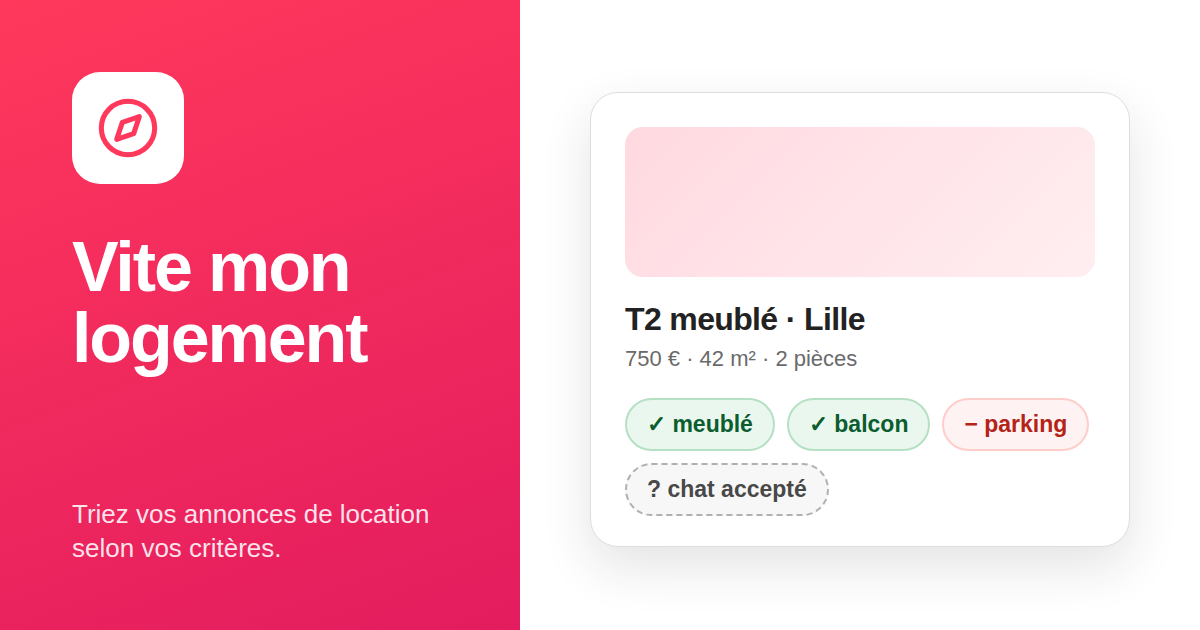
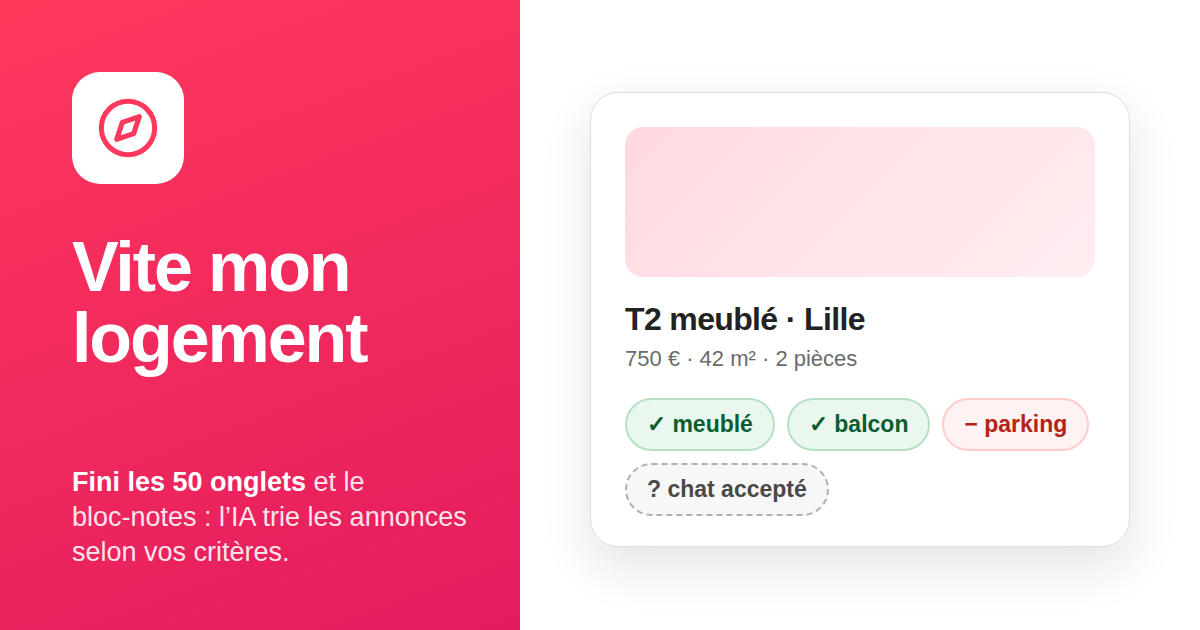
Aperçu du lien : message centré sur la rapidité grâce à l'IA (fini les 50 onglets et le bloc-notes)
Claude-Session: https://claude.ai/code/session_01HCKv9XVdnMPQNpiq93YsCf

Changed region(s): [[0.0617, 0.754, 0.4008, 0.9048]]

diff --git a/artifacts/logiscope/index.html b/artifacts/logiscope/index.html
@@ -4,10 +4,10 @@
     <meta charset="UTF-8" />
     <meta name="viewport" content="width=device-width, initial-scale=1.0, maximum-scale=1" />
     <title>Vite mon logement</title>
-    <meta name="description" content="Triez rapidement des annonces de location selon vos critères, avec preuves tirées des annonces." />
+    <meta name="description" content="Fini les 50 onglets et le bloc-notes : décrivez le logement que vous cherchez, l’IA trie les annonces et vérifie vos critères pour vous." />
     <meta name="robots" content="index, follow" />
-    <meta property="og:title" content="Vite mon logement" />
-    <meta property="og:description" content="Triez rapidement des annonces de location selon vos critères, avec preuves tirées des annonces." />
+    <meta property="og:title" content="Vite mon logement : trouvez une location plus vite, avec l’IA" />
+    <meta property="og:description" content="Fini les 50 onglets et le bloc-notes : décrivez le logement que vous cherchez, l’IA trie les annonces et vérifie vos critères pour vous." />
     <meta property="og:type" content="website" />
     <meta property="og:site_name" content="Vite mon logement" />
     <meta property="og:locale" content="fr_FR" />
@@ -17,10 +17,10 @@
     <meta property="og:image:type" content="image/png" />
     <meta property="og:image:width" content="1200" />
     <meta property="og:image:height" content="630" />
-    <meta property="og:image:alt" content="Vite mon logement : des annonces de location triées selon vos critères" />
+    <meta property="og:image:alt" content="Vite mon logement : l’IA trie les annonces de location selon vos critères, sans 50 onglets" />
     <meta name="twitter:card" content="summary_large_image" />
-    <meta name="twitter:title" content="Vite mon logement" />
-    <meta name="twitter:description" content="Triez rapidement des annonces de location selon vos critères, avec preuves tirées des annonces." />
+    <meta name="twitter:title" content="Vite mon logement : trouvez une location plus vite, avec l’IA" />
+    <meta name="twitter:description" content="Fini les 50 onglets et le bloc-notes : décrivez le logement que vous cherchez, l’IA trie les annonces et vérifie vos critères pour vous." />
     <meta name="twitter:image" content="__ORIGIN__/og-image.png" />
     <link rel="icon" type="image/svg+xml" href="/favicon.svg" />
     <link rel="preconnect" href="https://fonts.googleapis.com">
